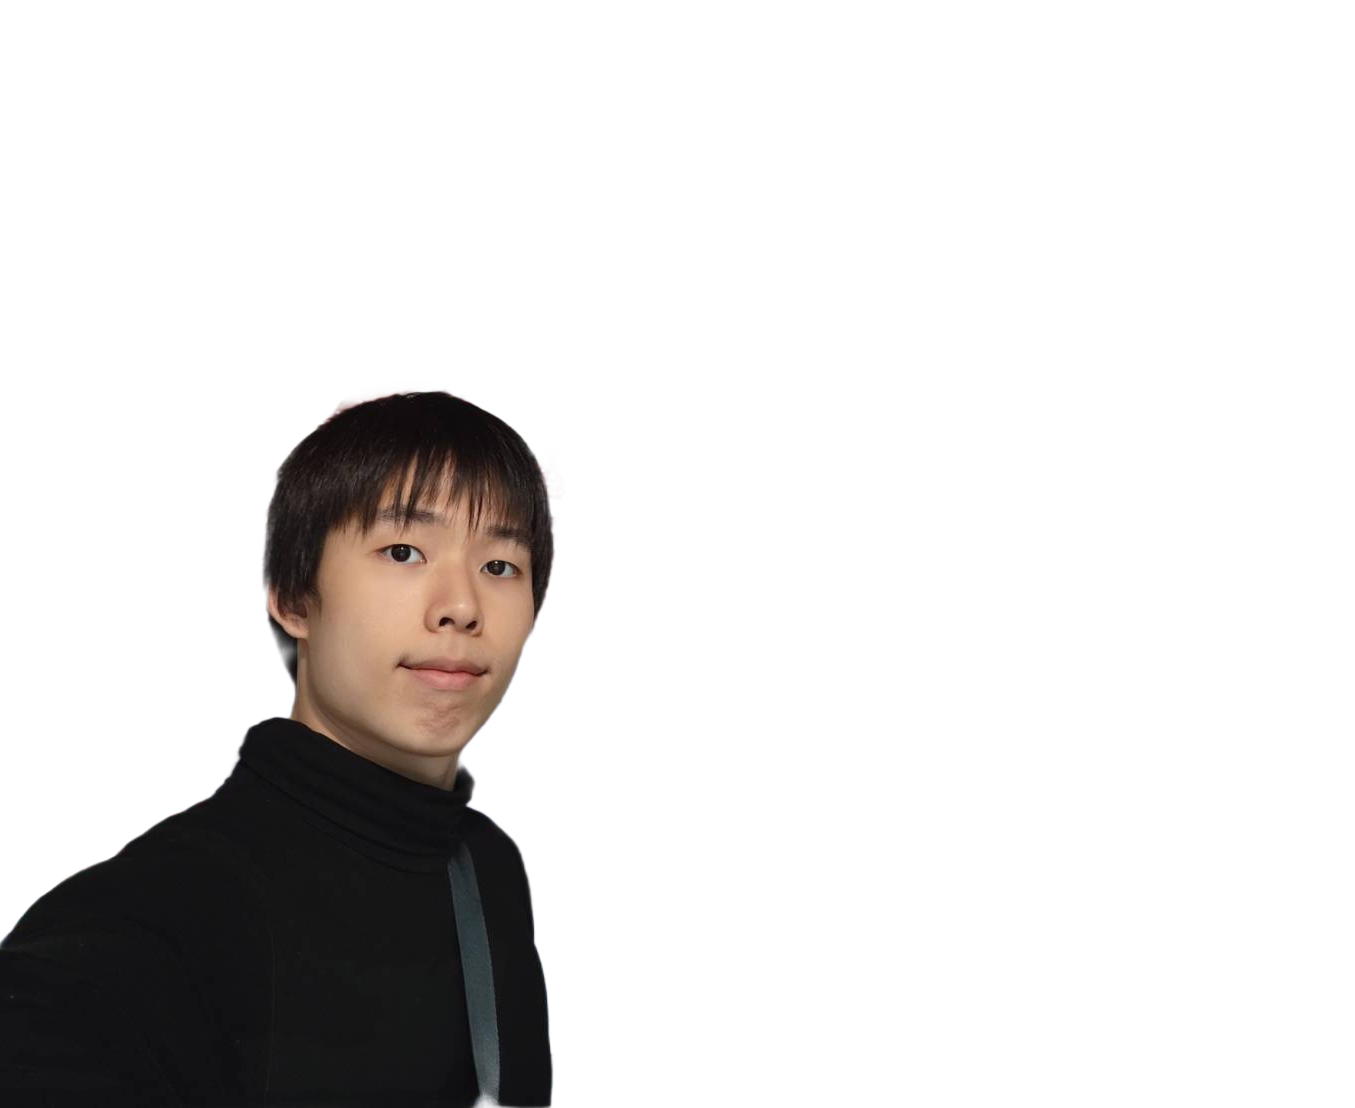
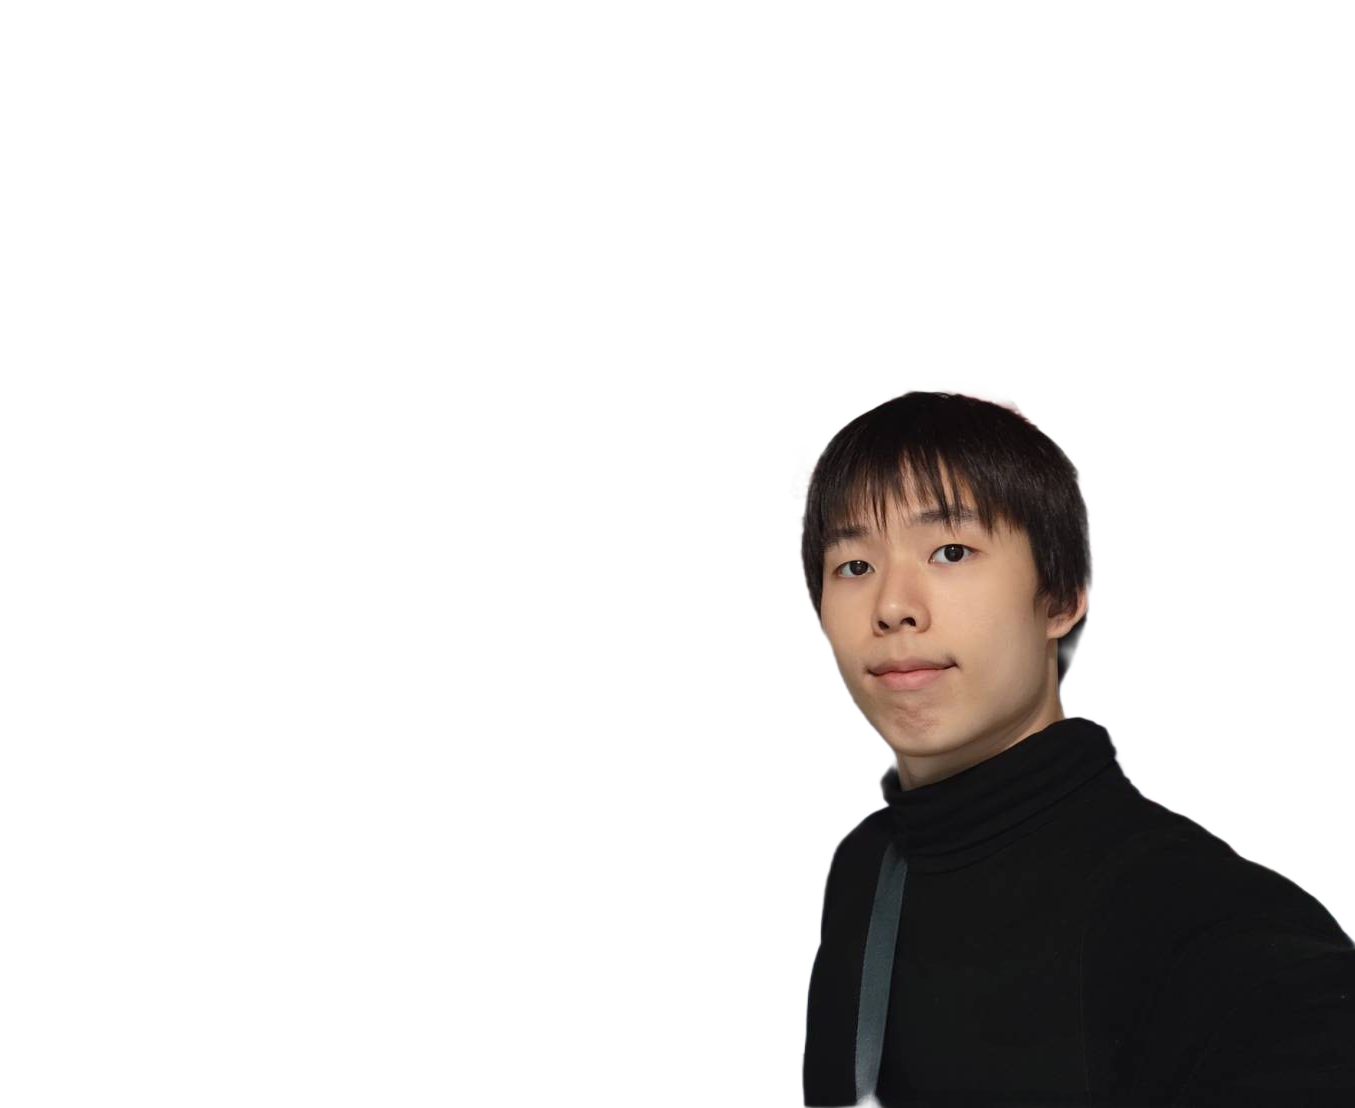
Update Index

diff --git a/index.html b/index.html
@@ -96,7 +96,7 @@ Copyright <script>document.write(new Date().getFullYear());</script> All rights 
 			<section id="colorlib-hero" class="js-fullheight" data-section="home">
 				<div class="flexslider js-fullheight">
 					<ul class="slides">
-				   	<li style="background-image: url(images/1.jpg); background-size: contain; background-position: bottom; background-repeat: no-repeat;">
+				   	<li style="background-image: url(images/withhand.png);">
 				   		<div class="overlay"></div>
 				   		<div class="container-fluid">
 				   			<div class="row">
